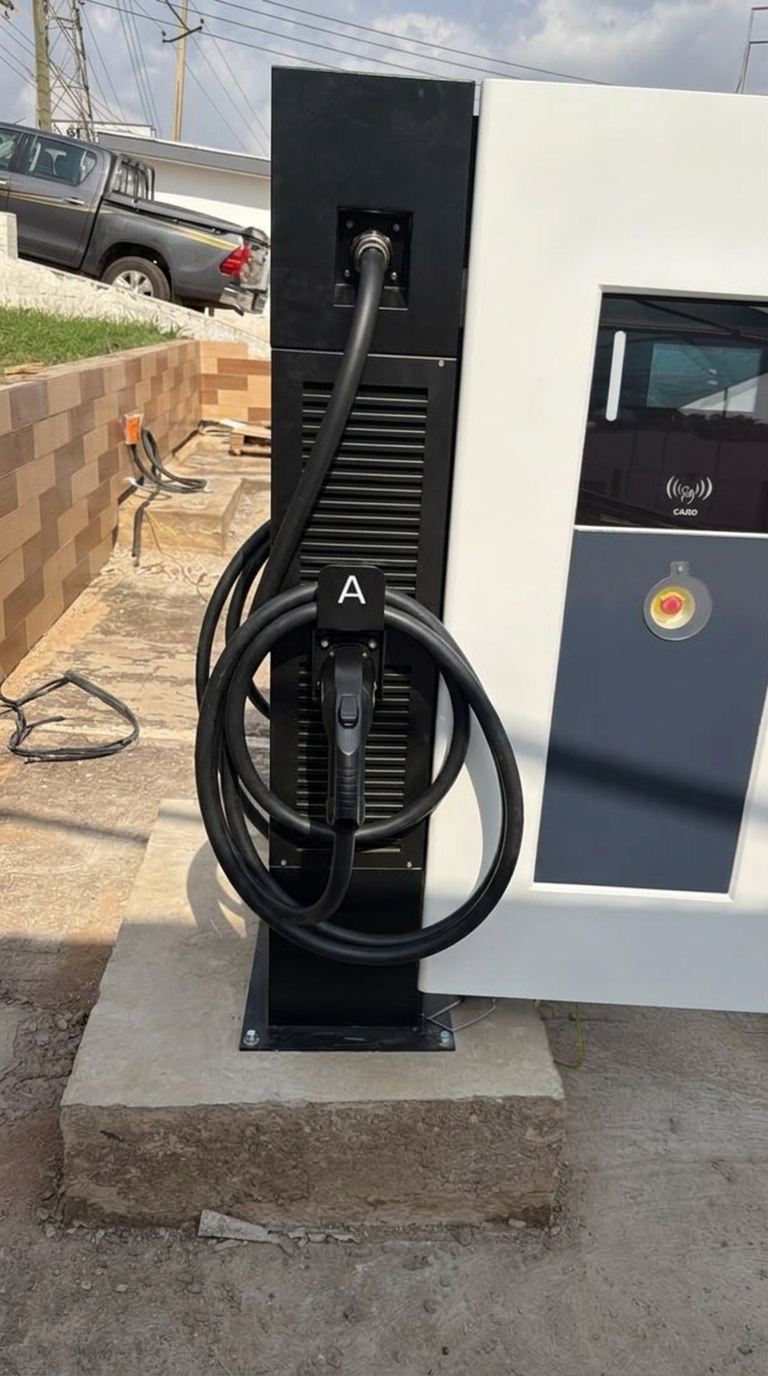
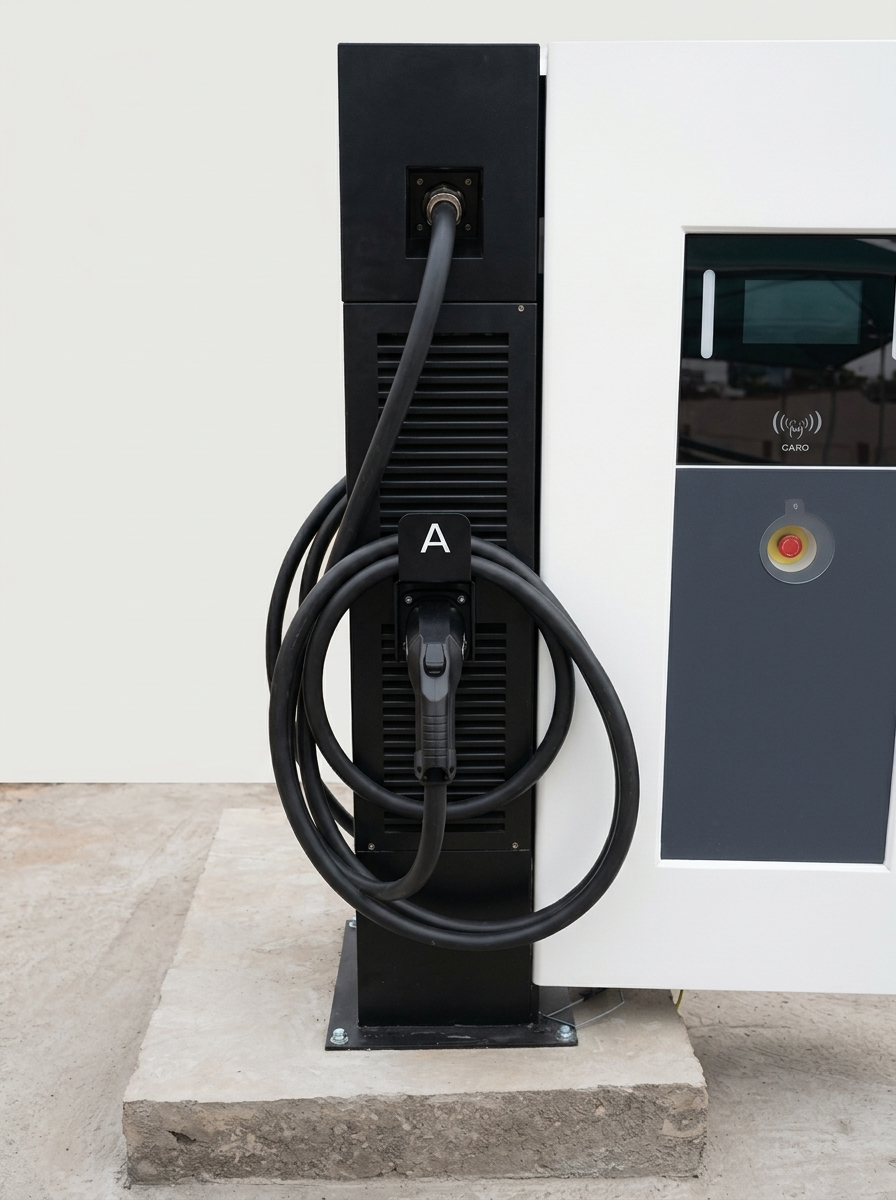
chore(assets): tightly crop station and outlet photos around charger units

diff --git a/ROADMAP.md b/ROADMAP.md
@@ -69,7 +69,7 @@ Status: Web and native presentation layer implemented and connected to existing 
 - [x] Removed remaining mock/fallback data from `server/auth.ts` (`'123456'` OTP bypass, `GH₵ 100` welcome credit, random `GX XXXX - 24` BYD vehicles, and `Driver <last4>` phone-number names) and normalized `Driver XXXX` display names to `Wilpower Driver` in `WillPowerApp.tsx`.
 - [x] Enforced strict production-only signup & login (`server/auth.ts`, `api/auth/send-otp.ts`, `WillPowerApp.tsx`): removed all offline/demo OTP fallbacks (`428190`/`123456`/`devCode`), persisted signup `displayName` & `vehiclePlate` to `data/users.json` without overwriting on subsequent logins, and prevented `getUserWallet` from falling back to another user's wallet.
 - [x] Removed internal OCPP engineering tab (5-Step HMI Commissioning Guide, password `1`, JSON-over-WebSocket packet stream, Simulator Mode) from the public driver app (`WillPowerApp.tsx`, keeping all commissioning/OCPP tools in `/admin`) and updated `.wp-mobile-nav` to 4 clean driver tabs (`Overview`, `Find`, `Charging`, `MoMo`).
-- [x] Retouched and cleaned Greenwood Event Center station & outlet photos (`station-a.jpg`, `station1-outlet-a.jpg`, `station1-outlet-b.jpg`, `station2-40kw.jpg`) across `public/stations/`, `dist/stations/`, and `expo-mobile/assets/stations/` to remove plastic wrap, foam, tools, and site debris.
+- [x] Retouched and tightly cropped Greenwood Event Center station & outlet photos (`station-a.jpg`, `station1-outlet-a.jpg`, `station1-outlet-b.jpg`, `station2-40kw.jpg`) across `public/stations/`, `dist/stations/`, and `expo-mobile/assets/stations/` so only the charging units and cables are framed cleanly without background clutter.
 - [ ] Replace concept photography with licensed or commissioned Ghanaian photography before public launch.
 
 ## Detailed Roadmap Phases
